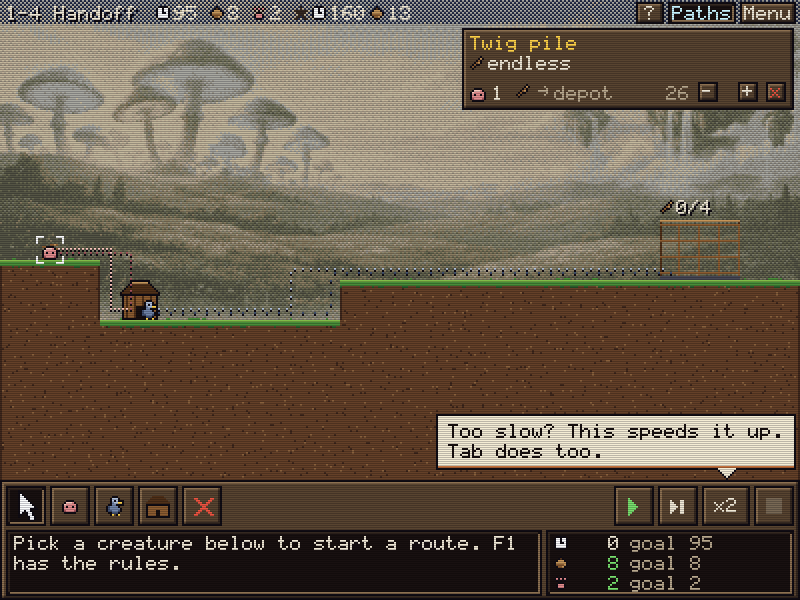
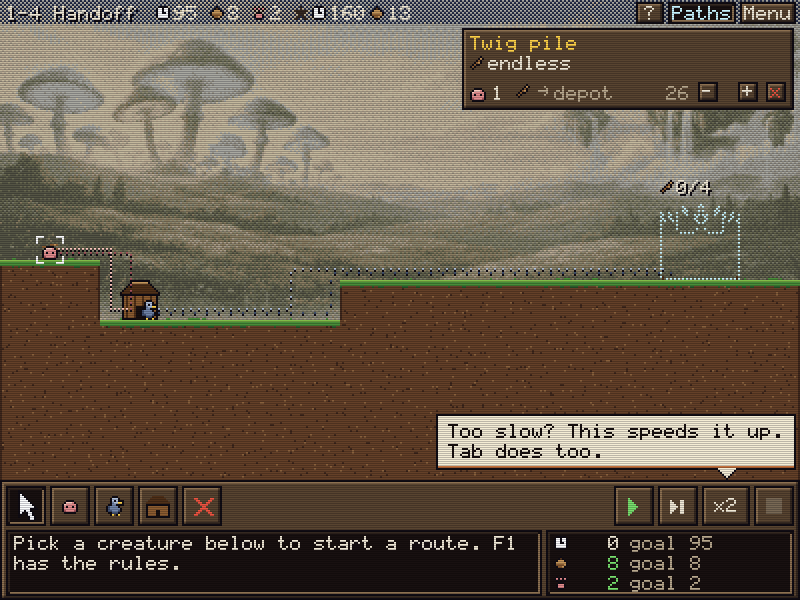
Bird Fortress: the fortress rises stone by stone under a blueprint
A keep with two towers, a gate and a winged crest. Its outline shows as
a dotted blueprint, stone fills it from the ground up as goods arrive,
and banners and a gold crest appear when it's complete.

Changed region(s): [[0.8125, 0.3, 0.9375, 0.48]]

diff --git a/birdfortress/src/render.rs b/birdfortress/src/render.rs
@@ -343,6 +343,59 @@ fn draw_source(fb: &mut Framebuffer, art: &crate::art::Art, good: Good, px: i32,
     }
 }
 
+/// The fortress's shape, in pixels relative to its footprint's top-left (y may go above 0 for the
+/// crest and tower tops): 0 = outside, 1 = stone, 2 = window or gate (dark), 3 = crest.
+fn fortress_shape(x: i32, y: i32, pw: i32, ph: i32) -> u8 {
+    if x < 0 || x >= pw {
+        return 0;
+    }
+    let tw = 9;
+    let tower = x < tw || x >= pw - tw;
+    let keep_top = 6;
+    // Crest: a bird with spread wings on top of the keep, centred.
+    let cx = pw / 2;
+    let dx = (x - cx).abs();
+    if (-9..keep_top).contains(&y) && dx <= 9 {
+        // Wings rise outward in a V; a narrow body with a head on top and a fanned tail below.
+        let wing = dx >= 2 && y >= -1 - dx * 2 / 3 && y <= 1 - dx * 2 / 3;
+        let body = dx <= 1 && (-7..keep_top).contains(&y);
+        let head = dx == 0 && y == -8;
+        let tail = dx <= 2 && (3..keep_top).contains(&y);
+        let wing = wing || head || tail;
+        if wing || body {
+            return 3;
+        }
+    }
+    if tower {
+        if y < -4 || y >= ph {
+            return 0;
+        }
+        if y < 0 {
+            // Merlons.
+            let lx = if x < tw { x } else { x - (pw - tw) };
+            return if lx % 4 < 2 { 1 } else { 0 };
+        }
+        let lx = if x < tw { x } else { x - (pw - tw) };
+        if (3..6).contains(&lx) && (4..8).contains(&y) {
+            return 2;
+        }
+        return 1;
+    }
+    if y < keep_top || y >= ph {
+        return 0;
+    }
+    // Gate arch.
+    let gw = 5;
+    if dx <= gw / 2 + 1 && y >= ph - 10 && !(y == ph - 10 && dx == gw / 2 + 1) {
+        return 2;
+    }
+    // A row of slit windows.
+    if y >= keep_top + 4 && y < keep_top + 7 && (x - tw) % 6 == 3 {
+        return 2;
+    }
+    1
+}
+
 fn draw_fortress(fb: &mut Framebuffer, g: &Game) {
     let lv = g.level();
     let (fx, fy, fw, fh) = lv.fortress;
@@ -353,44 +406,65 @@ fn draw_fortress(fb: &mut Framebuffer, g: &Game) {
         None => 0,
     };
     let done = got >= total;
-    // Footing and scaffold posts.
-    fb.rect_fill(px, py + ph - 2, pw, 2, ROCK_DK);
-    let wall_h = ph - 4;
-    let filled = wall_h * got / total;
-    for y in 0..filled {
-        let yy = py + ph - 2 - 1 - y;
-        let row = y / 3;
-        for x in 2..pw - 2 {
-            let mortar = y % 3 == 2 || (x + if row % 2 == 0 { 0 } else { 3 }) % 6 == 0;
-            fb.pset(px + x, yy, if mortar { ROCK_DK } else if y % 3 == 0 { ROCK_HI } else { ROCK });
+    // Stone rises from the ground as goods arrive; the rest is a faint blueprint.
+    let top = -9;
+    let span = ph - top;
+    let built_from = ph - span * got / total;
+    for y in top..ph {
+        for x in 0..pw {
+            let s = fortress_shape(x, y, pw, ph);
+            if s == 0 {
+                continue;
+            }
+            let edge = [(1, 0), (-1, 0), (0, 1), (0, -1)].iter().any(|(dx, dy)| fortress_shape(x + dx, y + dy, pw, ph) == 0);
+            let (sx, sy) = (px + x, py + y);
+            if y >= built_from {
+                let c = match s {
+                    2 => PANEL_DEEP,
+                    3 => {
+                        if done {
+                            if edge { OUTLINE } else if (x + y) % 3 == 0 { WHITE } else { GOLD }
+                        } else if edge {
+                            OUTLINE
+                        } else {
+                            ROCK_HI
+                        }
+                    }
+                    _ => {
+                        if edge {
+                            OUTLINE
+                        } else {
+                            let row = (y - top) / 3;
+                            let mortar = (y - top) % 3 == 2 || (x + if row % 2 == 0 { 0 } else { 3 }) % 6 == 0;
+                            if mortar { ROCK_DK } else if (y - top) % 3 == 0 { ROCK_HI } else { ROCK }
+                        }
+                    }
+                };
+                fb.pset(sx, sy, c);
+            } else if edge && (x + y) % 2 == 0 {
+                // Blueprint outline: a dotted ghost of what's to come.
+                fb.pset(sx, sy, ACCENT_HI);
+            }
         }
-        fb.pset(px + 1, yy, OUTLINE);
-        fb.pset(px + pw - 2, yy, OUTLINE);
     }
-    if done {
-        // Crenellations and the banner.
-        let top = py + 2;
-        for x in (2..pw - 2).step_by(4) {
-            fb.rect_fill(px + x, top - 2, 2, 2, ROCK);
+    // Scaffold while it's going up.
+    if !done {
+        for x in [1, pw - 2] {
+            fb.rect_fill(px + x, py + built_from.max(0) - 2, 1, ph - built_from.max(0) + 2, WOOD_DK);
         }
-        fb.rect_fill(px + pw / 2, top - 14, 1, 12, WOOD_DK);
-        fb.rect_fill(px + pw / 2 + 1, top - 14, 7, 4, BANNER);
-        fb.rect_fill(px + pw / 2 + 1, top - 14, 7, 1, GOLD);
+        if built_from < ph {
+            fb.rect_fill(px, py + built_from.max(top) - 1, pw, 1, WOOD);
+        }
     } else {
-        for x in [0, pw - 1] {
-            fb.rect_fill(px + x, py, 1, ph - 2, WOOD_DK);
+        // Banners on both towers.
+        for bx in [3, pw - 6] {
+            fb.rect_fill(px + bx, py - 12, 1, 8, WOOD_DK);
+            fb.rect_fill(px + bx + 1, py - 12, 4, 3, BANNER);
         }
-        for k in 0..fw {
-            fb.rect_fill(px + k * TILE + TILE - 1, py + 2, 1, ph - 4, WOOD);
-        }
-        for y in (py + 2..py + ph - 2).step_by(8) {
-            fb.rect_fill(px, y, pw, 1, WOOD);
-        }
-        fb.rect_fill(px, py, pw, 1, WOOD_HI);
     }
-    // Needs, above.
+    // What it still wants, above.
     let mut x = px;
-    let y = py - 10;
+    let y = py - 20;
     for (gd, n) in &lv.need {
         let have = g.sim.as_ref().map(|s| s.delivered(*gd)).unwrap_or(0).min(*n);
         let spr = g.art.good(*gd);

diff --git a/birdfortress/src/harness.rs b/birdfortress/src/harness.rs
@@ -582,6 +582,30 @@ pub fn shots(levels: &[Level], dir: &str) {
             snap(&mut g, &format!("{:02}_{}_result", 4 + k * 3, levels[*idx].id));
         }
     }
+    // The fortress going up, then finished.
+    g.enter_level(0);
+    g.overlay = crate::game::Overlay::None;
+    g.layout = Layout::from_text("R TRIBBLE s0 F TWIG 3");
+    g.rebuild();
+    g.speed = 0;
+    g.event(Ev::Key(Key::Space));
+    for _ in 0..400 {
+        g.tick();
+        if g.sim.as_ref().is_some_and(|s| s.delivered_total() >= 2) {
+            break;
+        }
+    }
+    g.running = false;
+    snap(&mut g, "30_fortress_rising");
+    g.running = true;
+    for _ in 0..400 {
+        if !g.running {
+            break;
+        }
+        g.tick();
+    }
+    g.overlay = crate::game::Overlay::None;
+    snap(&mut g, "31_fortress_done");
     g.event(Ev::Key(Key::Help));
     for p in 0..crate::game::HELP_PAGES {
         g.help_page = p;
